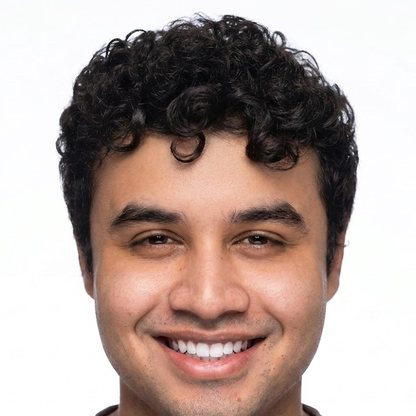
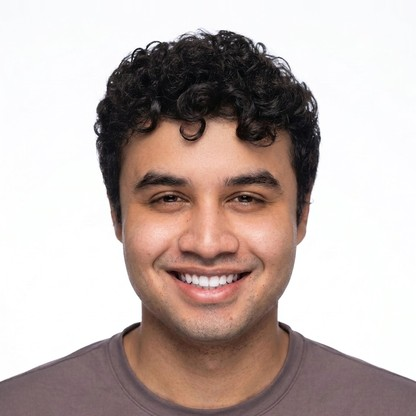
Reframe the home page portrait

diff --git a/index.html b/index.html
@@ -1,1 +1,1 @@
-<!doctype html><html lang="en"><head><meta charset="utf-8"><meta name="viewport" content="width=device-width,initial-scale=1"><title>Animesh Bose | Research portfolio</title><meta name="description" content="Ten health data studies I managed at Norlowe Research, each with its findings, methods, report and code."><link rel="stylesheet" href="assets/portfolio.css?v=cfaa88764b98"><style>.portfolio-intro{display:flex;align-items:center;gap:24px;max-width:780px}.portfolio-portrait{flex:none;width:104px;height:104px;border-radius:50%;object-fit:cover;background:#fff;box-shadow:0 0 0 1px rgba(255,255,255,.22)}.portfolio-intro-text{min-width:0}@media(max-width:720px){.portfolio-intro{gap:16px;align-items:flex-start}.portfolio-portrait{width:72px;height:72px}}</style></head><body><a class="skip" href="#projects">Skip to projects</a><nav class="portfolio-nav" aria-label="Portfolio"><a class="portfolio-home" href="index.html">Animesh Bose</a><span>Research portfolio</span></nav><main class="portfolio-landing"><header class="portfolio-intro"><img class="portfolio-portrait" src="assets/portrait.jpg" alt="Portrait of the author" width="104" height="104"><div class="portfolio-intro-text"><h1>Research projects</h1><p>I managed these ten health data studies at Norlowe Research. Each one includes the findings, methods, report and code.</p></div></header><div class="portfolio-grid" id="projects"><a class="portfolio-card" href="projects/insurance-continuity/index.html"><div class="portfolio-preview"><img src="assets/previews/01.png" alt="" width="800" height="500" loading="eager"></div><h2>Insurance continuity</h2><p>A survey analysis of monthly insurance coverage, prescription use and spending in adults with diabetes. Year-end coverage misses gaps earlier in the year. Of US adults aged 18 to 64 with diagnosed diabetes who were insured on December 31, 2024, 8.5% had at least one fully uninsured month that year.</p></a><a class="portfolio-card" href="projects/trial-results-audit/index.html"><div class="portfolio-preview"><img src="assets/previews/02.svg" alt="" width="800" height="500" loading="eager"></div><h2>Trial results audit</h2><p>An audit of 1,961 clinical trials that traces which participant count belongs with each reported result, and how much a one-count-per-arm export changes two-arm comparisons. For 23.0% of 97,756 measurements, that export attached a participant count other than the number analyzed that the table row itself reported.</p></a><a class="portfolio-card" href="projects/evidence-model-audit/index.html"><div class="portfolio-preview"><img src="assets/previews/03.svg" alt="" width="800" height="500" loading="lazy"></div><h2>Evidence model audit</h2><p>Small local language models, and later three frontier models, answered 1,209 clinical trial questions. The benchmark tests whether a real quote means a correct answer. With retrieved passages, the main small model was still wrong in 45.6% of its answers backed by a real quote.</p></a><a class="portfolio-card" href="projects/diabetes-definition-audit/index.html"><div class="portfolio-preview"><img src="assets/previews/04.png" alt="" width="800" height="500" loading="lazy"></div><h2>Diabetes definition audit</h2><p>How the biomarker definition, laboratory sample and survey weight each move NHANES diabetes prevalence estimates, with a checker that refuses invalid comparisons. In 2,938 adults with both blood tests in 2021 to 2023, the two gave similar weighted prevalence, 10.8% and 11.2%, but flagged partly different people.</p></a><a class="portfolio-card" href="projects/medication-identity/index.html"><div class="portfolio-preview"><img src="assets/previews/05.svg" alt="" width="800" height="500" loading="lazy"></div><h2>Medication identity</h2><p>A pipeline from DailyMed labels to FHIR medication records, tested for information loss and terminology mismatches. Read from core FHIR R4 fields alone, 28.0% of 2,392 held-out active ingredients had their stated strength tied to the wrong substance.</p></a><a class="portfolio-card" href="projects/prescribing-suppression/index.html"><div class="portfolio-preview"><img src="assets/previews/06.svg" alt="" width="800" height="500" loading="lazy"></div><h2>Prescribing suppression</h2><p>An audit of how suppressed records in Medicare Part D prescribing data affect drug totals and state comparisons. In 2024 the prescriber-drug file held 91.0% of published cardiometabolic drug claims, but the median drug label kept only 35.5% of its claims.</p></a><a class="portfolio-card" href="projects/hospital-comparability/index.html"><div class="portfolio-preview"><img src="assets/previews/07.svg" alt="" width="800" height="500" loading="lazy"></div><h2>Hospital comparability</h2><p>A check of CMS heart-failure hospital rankings that tests comparability and shows the uncertainty behind each ordering. The published uncertainty ranges overlapped for 99.6% of 141,219 same-state hospital pairs ranked on heart-failure readmission.</p></a><a class="portfolio-card" href="projects/diabetes-outreach-priorities/index.html"><div class="portfolio-preview"><img src="assets/previews/08.svg" alt="" width="800" height="500" loading="lazy"></div><h2>Diabetes outreach priorities</h2><p>A county planning analysis comparing diabetes outreach priorities based on prevalence, estimated burden and poverty. Ranking counties by the share or by the estimated number of adults with diagnosed diabetes gave top 25 lists with no county in common.</p></a><a class="portfolio-card" href="projects/adverse-event-robustness/index.html"><div class="portfolio-preview"><img src="assets/previews/09.svg" alt="" width="800" height="500" loading="lazy"></div><h2>Adverse event robustness</h2><p>An analysis of how case definitions and processing choices change reported associations in FDA adverse-event reports. For one class of diabetes drugs and joint pain, also counting drugs named as secondary suspects moved the reporting odds ratio from 0.66 to 1.81.</p></a><a class="portfolio-card" href="projects/retraction-aware-evidence/index.html"><div class="portfolio-preview"><img src="assets/previews/10.svg" alt="" width="800" height="500" loading="lazy"></div><h2>Retraction-aware evidence</h2><p>An audit linking references in 1,000 systematic reviews to retraction, correction and expression-of-concern records. In 40 of the reviews, 44 references cited work flagged as retracted, and for 14 references the retraction notice came before the review went online.</p></a></div><p class="portfolio-end">Animesh Bose</p></main></body></html>
+<!doctype html><html lang="en"><head><meta charset="utf-8"><meta name="viewport" content="width=device-width,initial-scale=1"><title>Animesh Bose | Research portfolio</title><meta name="description" content="Ten health data studies I managed at Norlowe Research, each with its findings, methods, report and code."><link rel="stylesheet" href="assets/portfolio.css?v=cfaa88764b98"><style>.portfolio-intro{display:flex;align-items:center;gap:24px;max-width:780px}.portfolio-portrait{flex:none;width:104px;height:104px;border-radius:50%;object-fit:cover;background:#fff;box-shadow:0 0 0 1px rgba(255,255,255,.22)}.portfolio-intro-text{min-width:0}@media(max-width:720px){.portfolio-intro{gap:16px;align-items:flex-start}.portfolio-portrait{width:72px;height:72px}}</style></head><body><a class="skip" href="#projects">Skip to projects</a><nav class="portfolio-nav" aria-label="Portfolio"><a class="portfolio-home" href="index.html">Animesh Bose</a><span>Research portfolio</span></nav><main class="portfolio-landing"><header class="portfolio-intro"><img class="portfolio-portrait" src="assets/portrait.jpg?v=ddafa872cff6" alt="Portrait of the author" width="104" height="104"><div class="portfolio-intro-text"><h1>Research projects</h1><p>I managed these ten health data studies at Norlowe Research. Each one includes the findings, methods, report and code.</p></div></header><div class="portfolio-grid" id="projects"><a class="portfolio-card" href="projects/insurance-continuity/index.html"><div class="portfolio-preview"><img src="assets/previews/01.png" alt="" width="800" height="500" loading="eager"></div><h2>Insurance continuity</h2><p>A survey analysis of monthly insurance coverage, prescription use and spending in adults with diabetes. Year-end coverage misses gaps earlier in the year. Of US adults aged 18 to 64 with diagnosed diabetes who were insured on December 31, 2024, 8.5% had at least one fully uninsured month that year.</p></a><a class="portfolio-card" href="projects/trial-results-audit/index.html"><div class="portfolio-preview"><img src="assets/previews/02.svg" alt="" width="800" height="500" loading="eager"></div><h2>Trial results audit</h2><p>An audit of 1,961 clinical trials that traces which participant count belongs with each reported result, and how much a one-count-per-arm export changes two-arm comparisons. For 23.0% of 97,756 measurements, that export attached a participant count other than the number analyzed that the table row itself reported.</p></a><a class="portfolio-card" href="projects/evidence-model-audit/index.html"><div class="portfolio-preview"><img src="assets/previews/03.svg" alt="" width="800" height="500" loading="lazy"></div><h2>Evidence model audit</h2><p>Small local language models, and later three frontier models, answered 1,209 clinical trial questions. The benchmark tests whether a real quote means a correct answer. With retrieved passages, the main small model was still wrong in 45.6% of its answers backed by a real quote.</p></a><a class="portfolio-card" href="projects/diabetes-definition-audit/index.html"><div class="portfolio-preview"><img src="assets/previews/04.png" alt="" width="800" height="500" loading="lazy"></div><h2>Diabetes definition audit</h2><p>How the biomarker definition, laboratory sample and survey weight each move NHANES diabetes prevalence estimates, with a checker that refuses invalid comparisons. In 2,938 adults with both blood tests in 2021 to 2023, the two gave similar weighted prevalence, 10.8% and 11.2%, but flagged partly different people.</p></a><a class="portfolio-card" href="projects/medication-identity/index.html"><div class="portfolio-preview"><img src="assets/previews/05.svg" alt="" width="800" height="500" loading="lazy"></div><h2>Medication identity</h2><p>A pipeline from DailyMed labels to FHIR medication records, tested for information loss and terminology mismatches. Read from core FHIR R4 fields alone, 28.0% of 2,392 held-out active ingredients had their stated strength tied to the wrong substance.</p></a><a class="portfolio-card" href="projects/prescribing-suppression/index.html"><div class="portfolio-preview"><img src="assets/previews/06.svg" alt="" width="800" height="500" loading="lazy"></div><h2>Prescribing suppression</h2><p>An audit of how suppressed records in Medicare Part D prescribing data affect drug totals and state comparisons. In 2024 the prescriber-drug file held 91.0% of published cardiometabolic drug claims, but the median drug label kept only 35.5% of its claims.</p></a><a class="portfolio-card" href="projects/hospital-comparability/index.html"><div class="portfolio-preview"><img src="assets/previews/07.svg" alt="" width="800" height="500" loading="lazy"></div><h2>Hospital comparability</h2><p>A check of CMS heart-failure hospital rankings that tests comparability and shows the uncertainty behind each ordering. The published uncertainty ranges overlapped for 99.6% of 141,219 same-state hospital pairs ranked on heart-failure readmission.</p></a><a class="portfolio-card" href="projects/diabetes-outreach-priorities/index.html"><div class="portfolio-preview"><img src="assets/previews/08.svg" alt="" width="800" height="500" loading="lazy"></div><h2>Diabetes outreach priorities</h2><p>A county planning analysis comparing diabetes outreach priorities based on prevalence, estimated burden and poverty. Ranking counties by the share or by the estimated number of adults with diagnosed diabetes gave top 25 lists with no county in common.</p></a><a class="portfolio-card" href="projects/adverse-event-robustness/index.html"><div class="portfolio-preview"><img src="assets/previews/09.svg" alt="" width="800" height="500" loading="lazy"></div><h2>Adverse event robustness</h2><p>An analysis of how case definitions and processing choices change reported associations in FDA adverse-event reports. For one class of diabetes drugs and joint pain, also counting drugs named as secondary suspects moved the reporting odds ratio from 0.66 to 1.81.</p></a><a class="portfolio-card" href="projects/retraction-aware-evidence/index.html"><div class="portfolio-preview"><img src="assets/previews/10.svg" alt="" width="800" height="500" loading="lazy"></div><h2>Retraction-aware evidence</h2><p>An audit linking references in 1,000 systematic reviews to retraction, correction and expression-of-concern records. In 40 of the reviews, 44 references cited work flagged as retracted, and for 14 references the retraction notice came before the review went online.</p></a></div><p class="portfolio-end">Animesh Bose</p></main></body></html>
